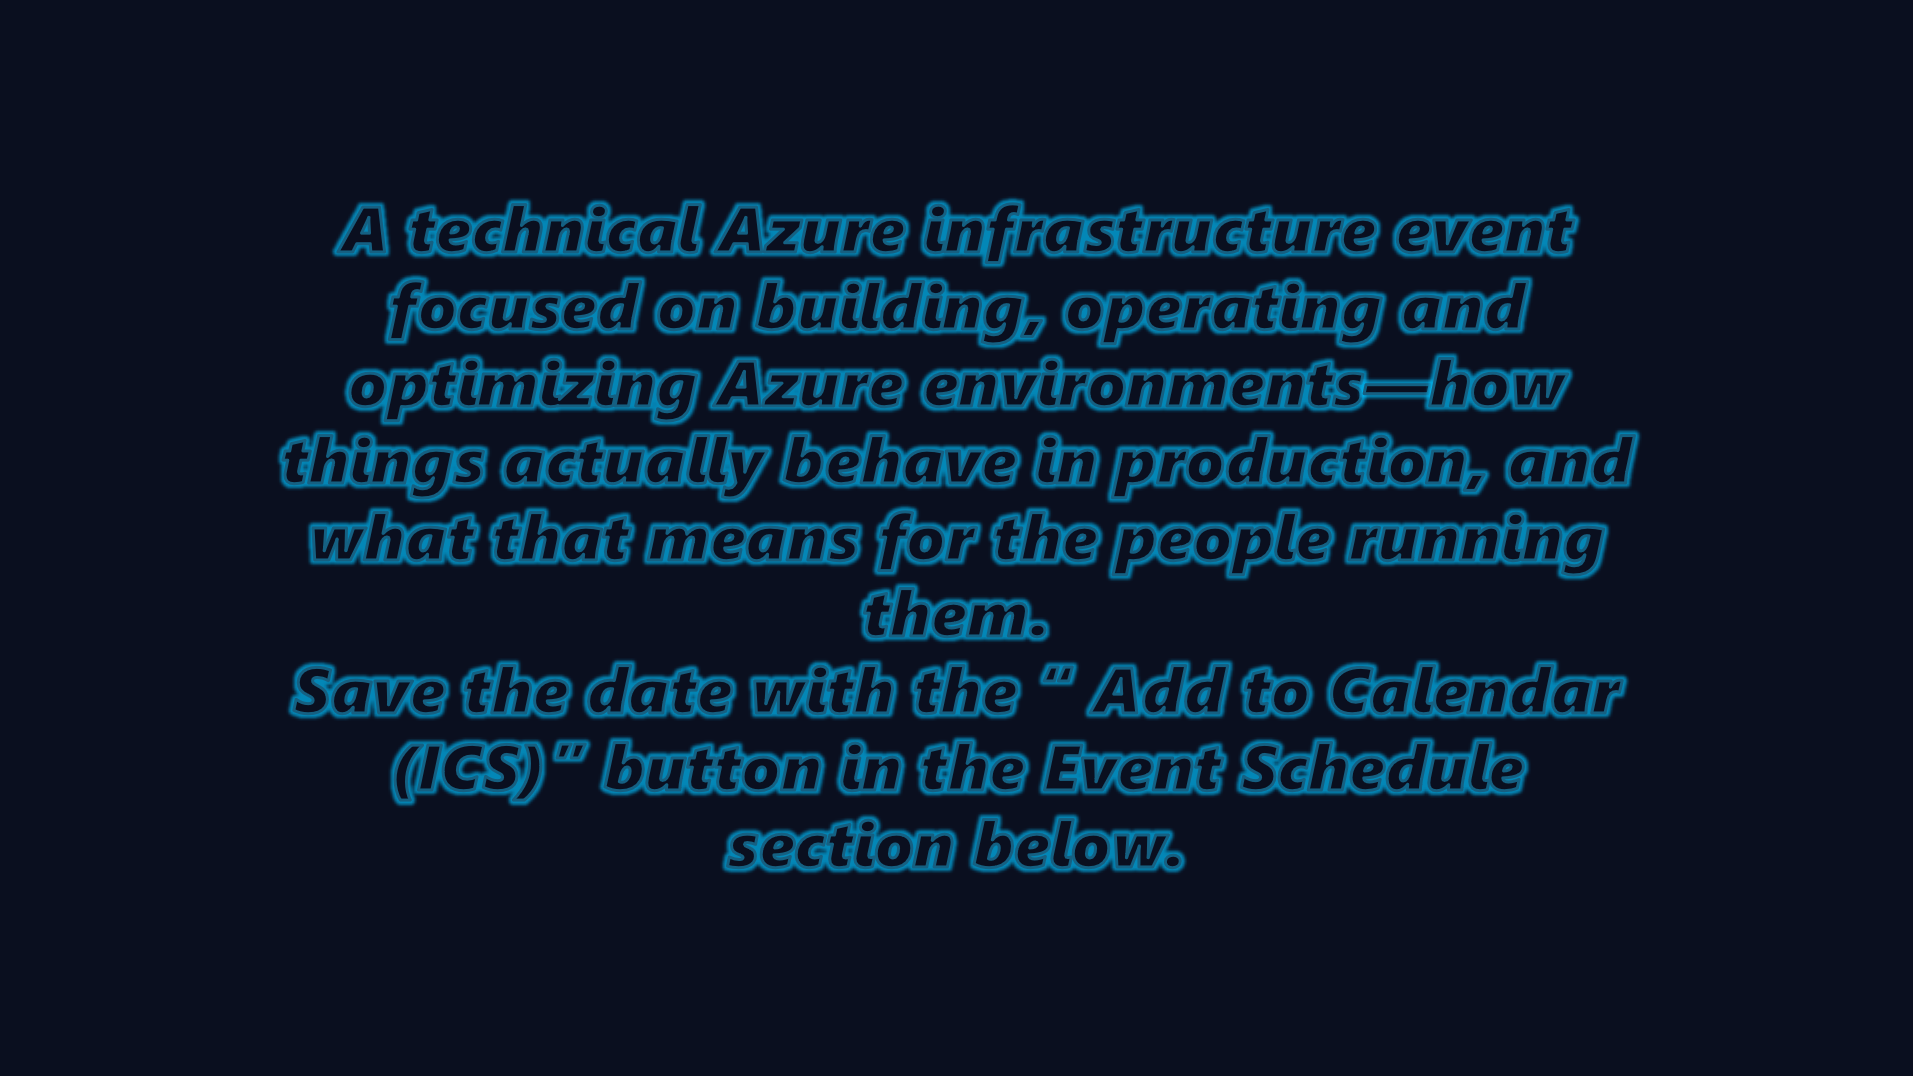
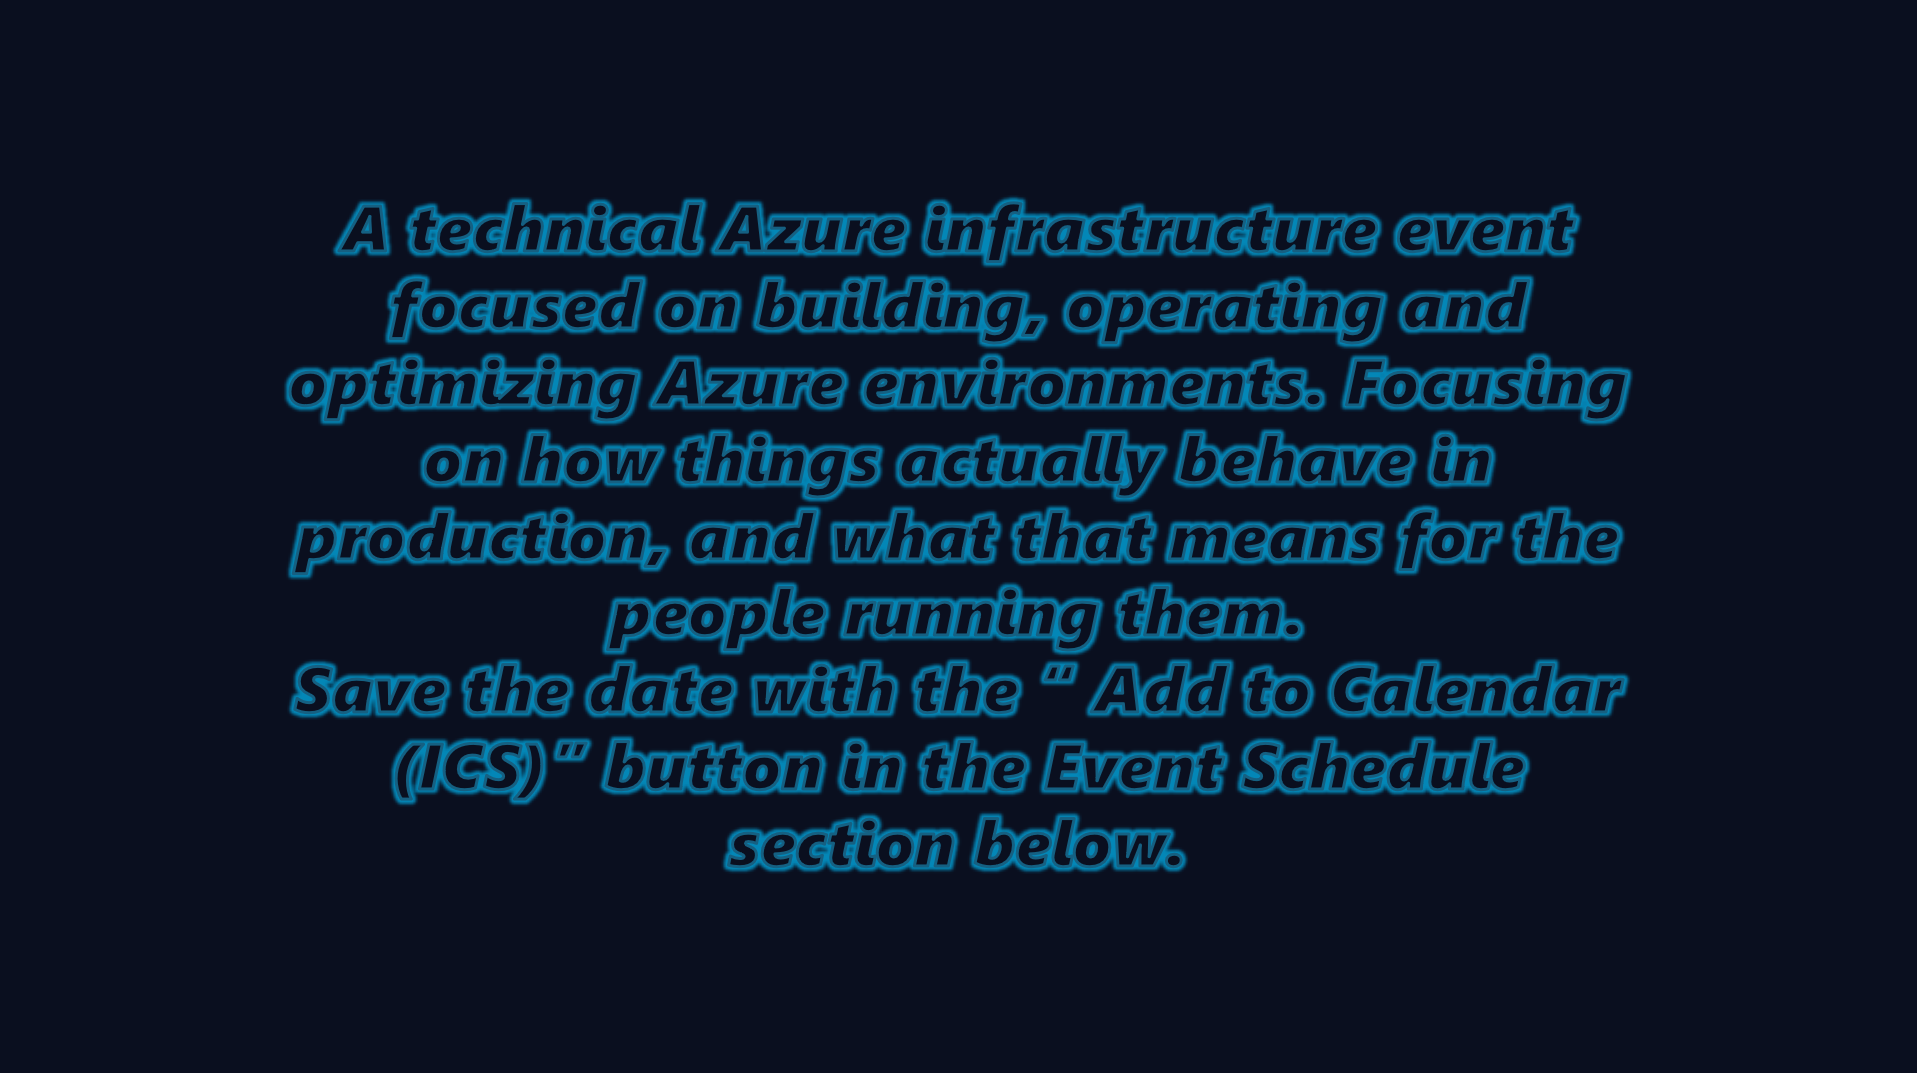
Update locustfile, add regional load test configs, update save-the-date image

Changed region(s): [[0.1234, 0.1845, 0.8636, 0.8304]]

diff --git a/locustfile.py b/locustfile.py
@@ -25,6 +25,9 @@ from locust import HttpUser, task, between, events
 
 logging.basicConfig(level=logging.WARNING)
 
+# Region tag for multi-region test identification
+REGION = os.getenv("REGION", "default")
+
 
 class EventAttendee(HttpUser):
     """Simulates a typical event attendee browsing the site."""
@@ -37,7 +40,7 @@ class EventAttendee(HttpUser):
     @task(50)
     def browse_homepage(self):
         """Load the main event page — highest traffic."""
-        with self.client.get("/", name="GET / (homepage)", catch_response=True) as r:
+        with self.client.get("/", name=f"[{REGION}] GET / (homepage)", catch_response=True) as r:
             if r.status_code == 200:
                 r.success()
             else:
@@ -46,14 +49,14 @@ class EventAttendee(HttpUser):
     @task(5)
     def load_styles(self):
         """Load the main stylesheet."""
-        self.client.get("/styles.css", name="GET /styles.css")
+        self.client.get("/styles.css", name=f"[{REGION}] GET /styles.css")
 
     # ── API endpoints (XHR calls the page makes) ────────────────
 
     @task(15)
     def get_schedule(self):
         """Fetch the event schedule — called on every page load."""
-        with self.client.get("/api/schedule", name="GET /api/schedule", catch_response=True) as r:
+        with self.client.get("/api/schedule", name=f"[{REGION}] GET /api/schedule", catch_response=True) as r:
             if r.status_code == 200:
                 r.success()
             else:
@@ -62,7 +65,7 @@ class EventAttendee(HttpUser):
     @task(15)
     def get_speakers(self):
         """Fetch speaker list."""
-        with self.client.get("/api/speakers", name="GET /api/speakers", catch_response=True) as r:
+        with self.client.get("/api/speakers", name=f"[{REGION}] GET /api/speakers", catch_response=True) as r:
             if r.status_code == 200:
                 r.success()
             else:
@@ -71,7 +74,7 @@ class EventAttendee(HttpUser):
     @task(5)
     def get_sponsors(self):
         """Fetch sponsor list."""
-        with self.client.get("/api/sponsors", name="GET /api/sponsors", catch_response=True) as r:
+        with self.client.get("/api/sponsors", name=f"[{REGION}] GET /api/sponsors", catch_response=True) as r:
             if r.status_code == 200:
                 r.success()
             else:
@@ -80,7 +83,7 @@ class EventAttendee(HttpUser):
     @task(5)
     def get_about_content(self):
         """Fetch about page markdown content."""
-        with self.client.get("/api/content/about", name="GET /api/content/about", catch_response=True) as r:
+        with self.client.get("/api/content/about", name=f"[{REGION}] GET /api/content/about", catch_response=True) as r:
             if r.status_code == 200:
                 r.success()
             else:
@@ -89,4 +92,4 @@ class EventAttendee(HttpUser):
     @task(5)
     def get_code_of_conduct(self):
         """Fetch code of conduct."""
-        self.client.get("/api/content/code-of-conduct", name="GET /api/content/code-of-conduct")
+        self.client.get("/api/content/code-of-conduct", name=f"[{REGION}] GET /api/content/code-of-conduct")
